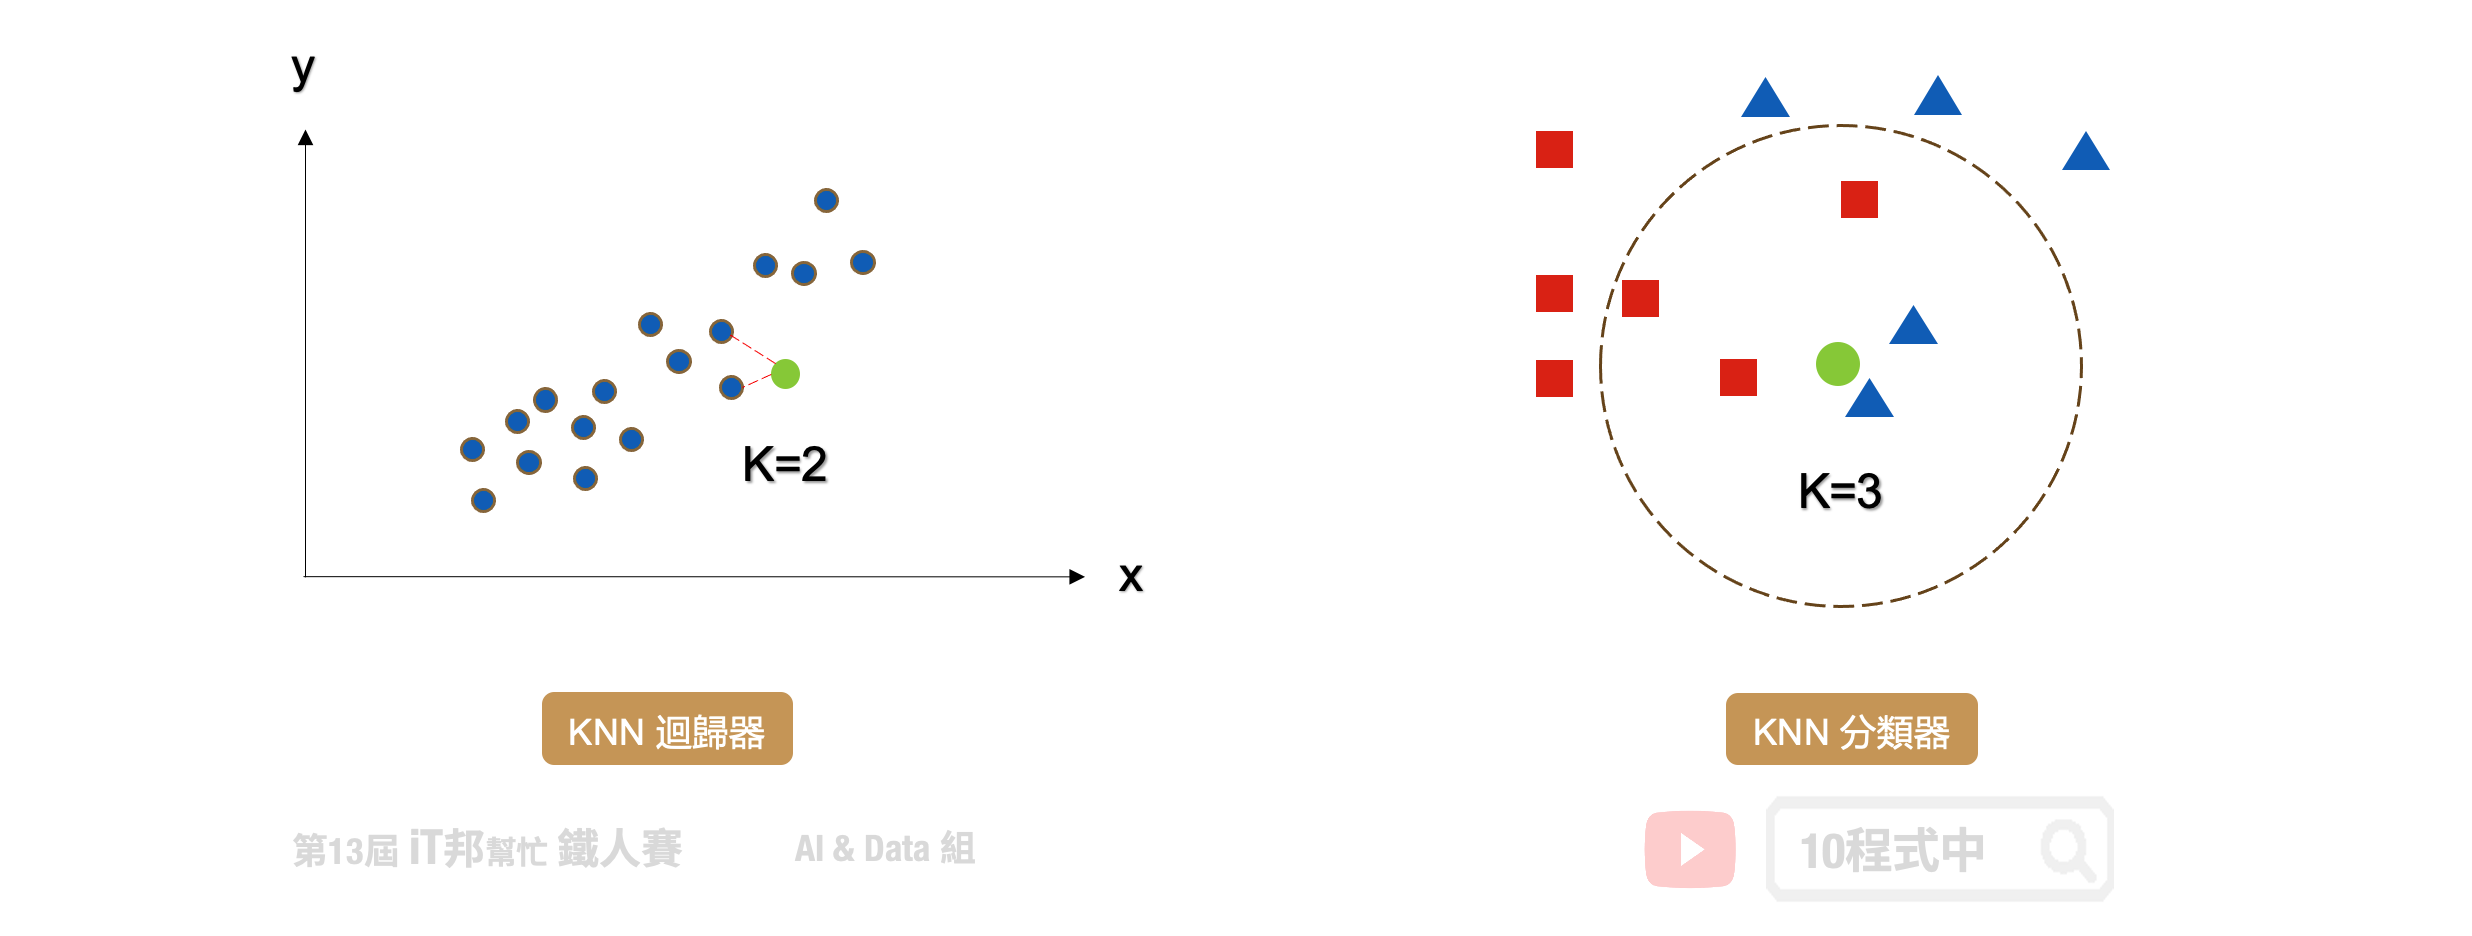
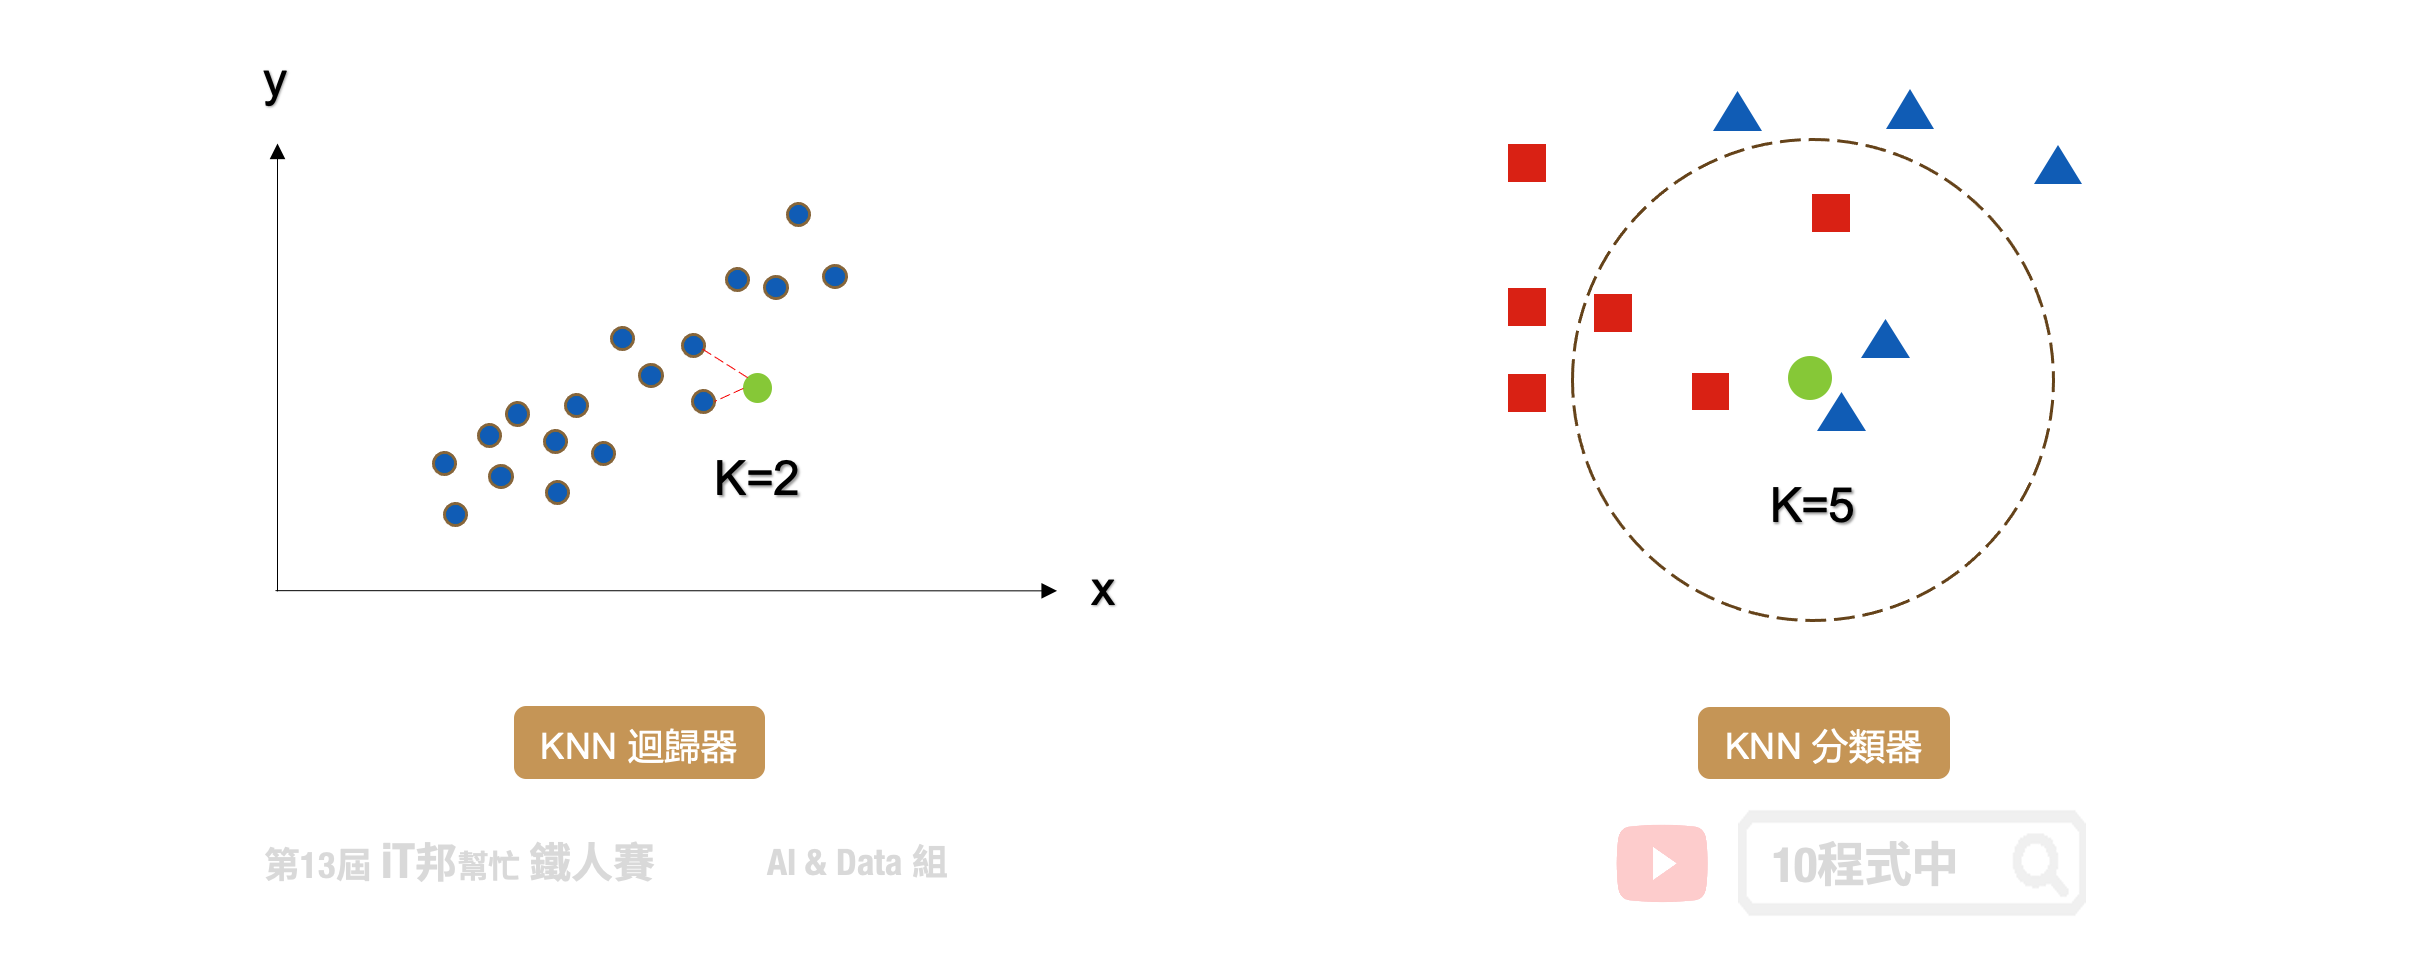
modify Day 10 KNN

diff --git a/10.KNN/README.md b/10.KNN/README.md
@@ -22,7 +22,7 @@ KNN 的全名 K Nearest Neighbor 是屬於機器學習中的 Supervised learning
 3. 找出跟自己最近的 k 個鄰居，查看哪一組鄰居數量最多，就加入哪一組
 > 如果還是沒辦法決定在哪一組，回到第一步調整 k 值，再繼續
 
-k 的大小會影響模型最終的分類結果。以下圖為例，假設綠色點是新的資料。當 k 等於 2 時會搜尋離綠色點最近的鄰居，我們可以發現藍色三角形為預測的結果。當 k 設為 3 的時候結果又不一樣了，我們發現距離最近的三個鄰居為紅色正方形。
+k 的大小會影響模型最終的分類結果。以下圖為例，假設綠色點是新的資料。當 k 等於 3 時會搜尋離綠色點最近的鄰居，我們可以發現藍色三角形為預測的結果。當 k 設為 5 的時候結果又不一樣了，我們發現距離最近的三個鄰居為紅色正方形。
 
 ![](./image/img10-2.png)
 
